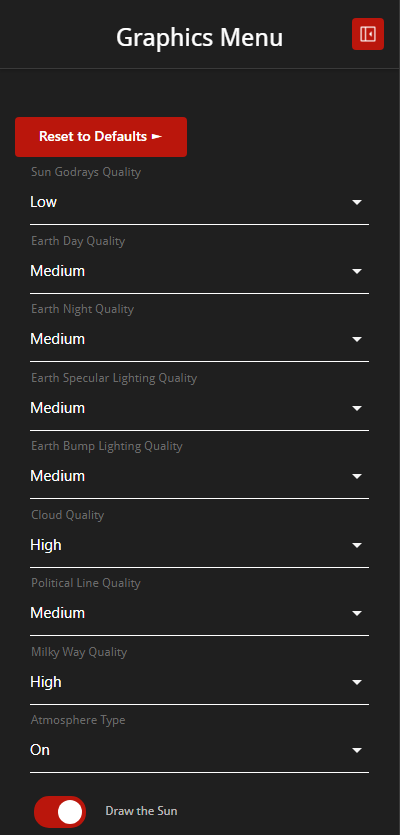
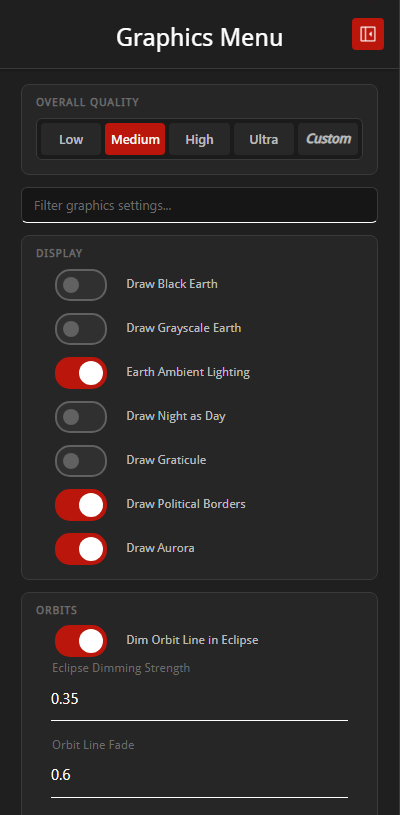
fix(graphics-menu): :bug: point the help at the existing screenshot and refresh it for the new menu

diff --git a/src/plugins/graphics-menu/graphics-menu.ts b/src/plugins/graphics-menu/graphics-menu.ts
@@ -126,7 +126,7 @@ export class GraphicsMenuPlugin extends KeepTrackPlugin {
           heading: t7e('help.overview'),
           content: l('help.overview'),
           image: {
-            src: 'img/help/graphics-menu/graphics-menu-menu.png',
+            src: 'img/help/graphics-menu/graphics-menu.png',
             alt: l('help.imgAlt'),
             caption: l('help.imgCaption'),
           },
